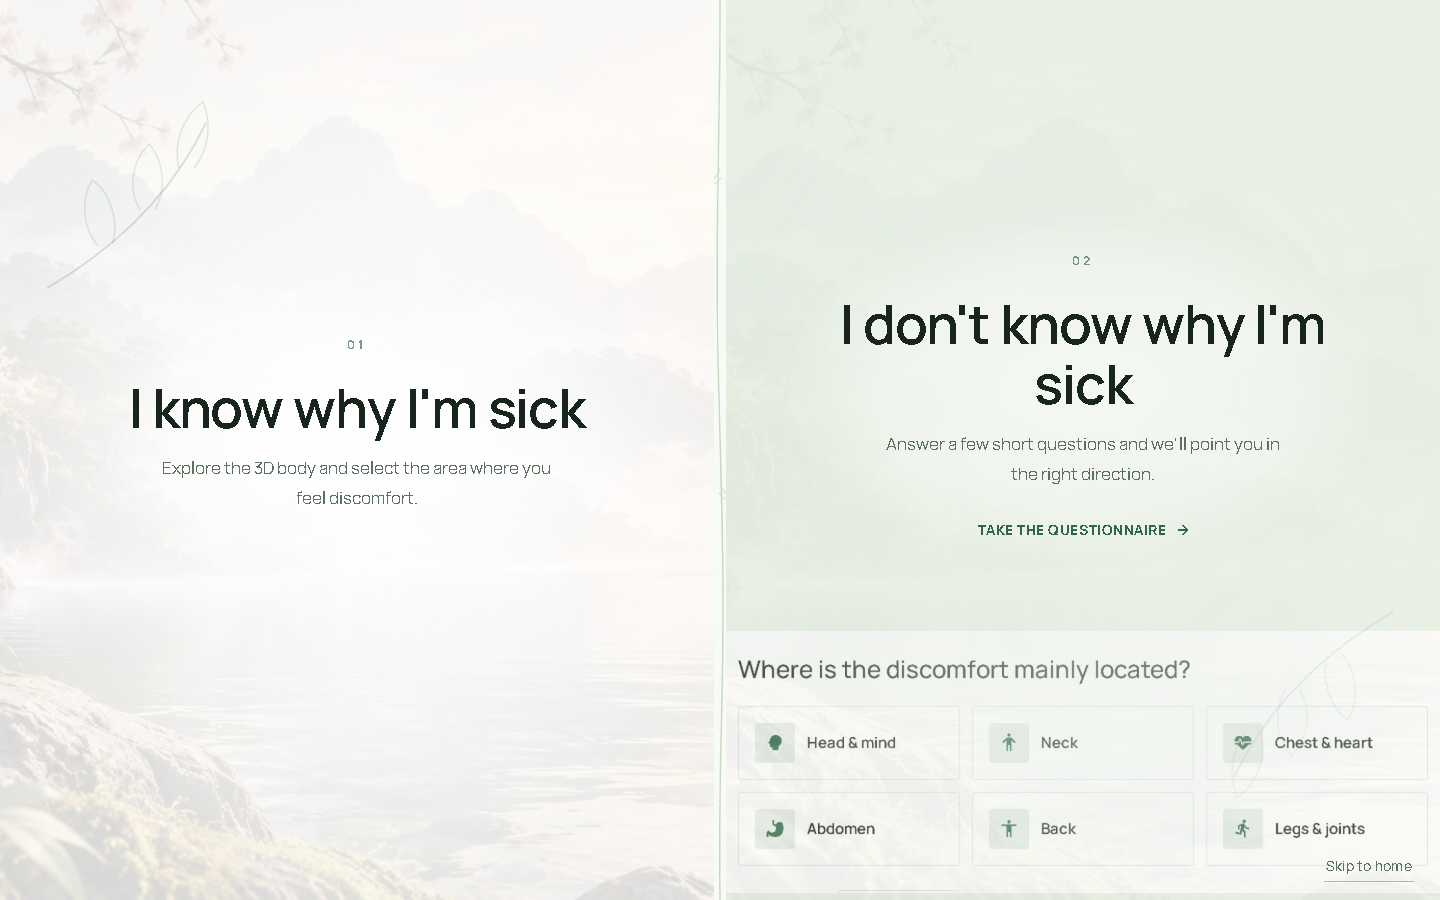
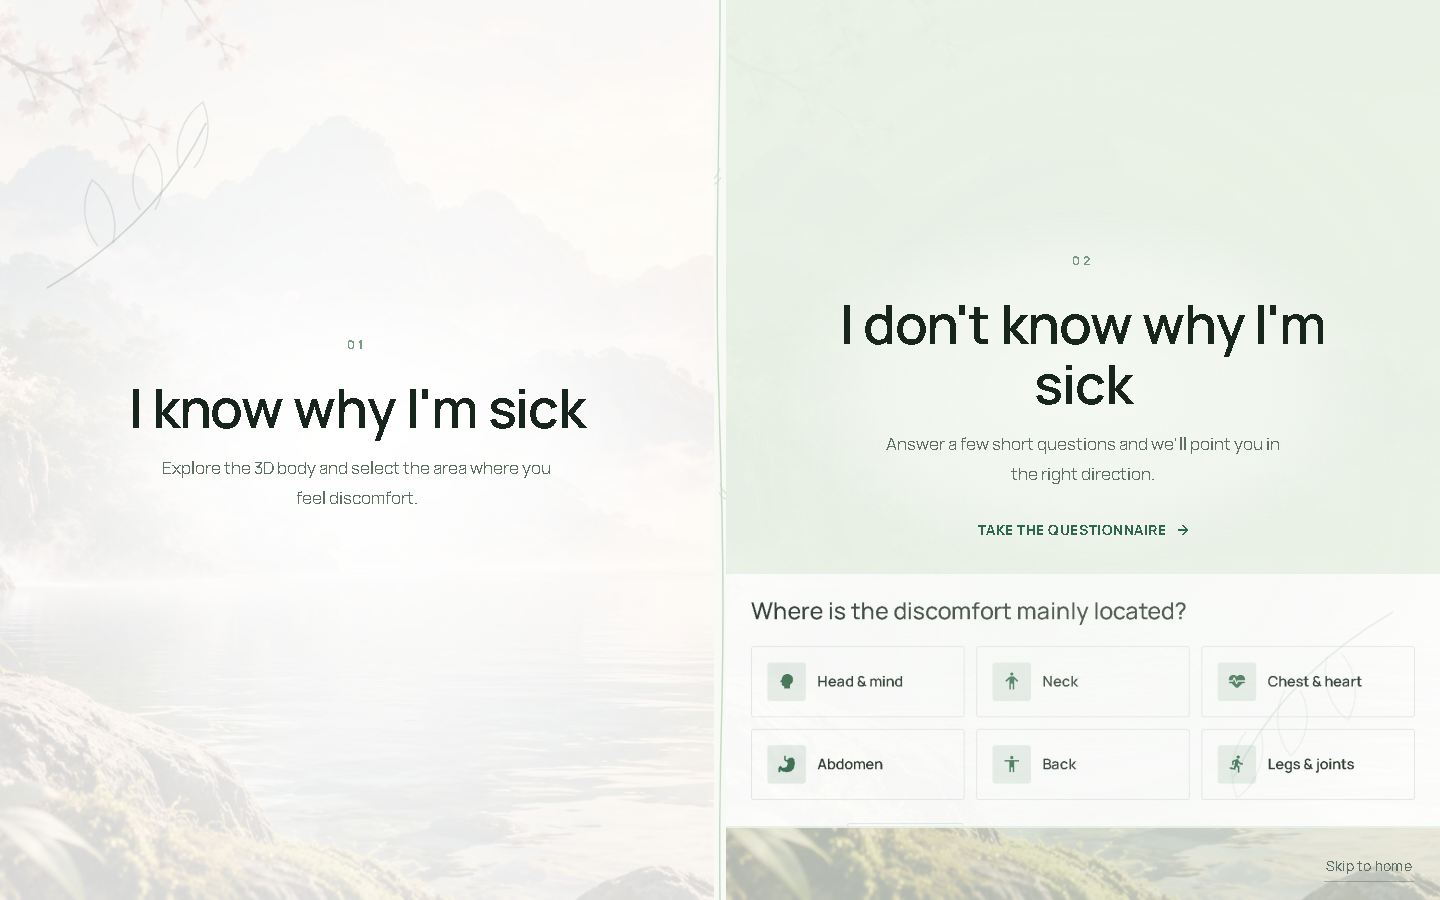
Round 7 corrective screenshots: /start framing, mobile skip pill, kidney selection

diff --git a/screenshots/nature-green/INDEX.md b/screenshots/nature-green/INDEX.md
@@ -1,9 +1,9 @@
 # Nature-Green Redesign — Visual Review (Round 7)
 
-Screenshots from the **latest Round 7 verification run** (`verify-final.mjs`
-against the live site at `https://localhost`, 2026-10-19 16:19–16:20 UTC+0
-capture time). These supersede all earlier rounds — every image below was
-regenerated in this run, not carried over.
+Screenshots from the **latest Round 7 corrective verification run**
+(`verify-final.mjs` against the live site at `https://localhost`, 2026-10-19
+18:46–18:47 UTC+0 capture time). These supersede all earlier rounds — every
+image below was regenerated in this run, not carried over.
 
 Application source code is **not** published here. This branch contains review
 screenshots and this index only.
@@ -15,13 +15,13 @@ screenshots and this index only.
 | `02-start-neutral.png` | 1440×900 | `/start` in its resting state — two entry panels, no preview revealed |
 | `03-start-left-preview.png` | 1440×900 | `/start` with the **left** panel active — "I know why I'm sick" preview revealed |
 | `04-start-right-preview.png` | 1440×900 | `/start` with the **right** panel active — "I don't know why I'm sick" preview revealed |
-| `15-mobile-start.png` | 390×844 | `/start` on mobile — framed touch previews, page-anchored skip link |
+| `15-mobile-start.png` | 390×844 | `/start` on mobile — framed touch previews, fixed top-right skip pill |
 | `05-home-chapter-1.png` | 1440×900 | Homepage **chapter 01** — editorial intro + arched nature photo |
 | `06-home-chapter-2.png` | 1440×900 | Homepage **chapter 02** — the book, service rows, gold booking CTA |
 | `07-home-chapter-3.png` | 1440×900 | Homepage **chapter 03** — share care (family + donations) over the nature wash |
 | `08-body-desktop.png` | 1440×900 | `/body` 3D body explorer, desktop — dark stage, organ selector rail, detail panel |
 | `09-body-mobile.png` | 390×844 | `/body` 3D body explorer, mobile — stacked selector + detail strip |
-| `16-body-selected.png` | 1440×900 | `/body` with an **organ selected** — camera focus + leader-line callout |
+| `16-body-selected.png` | 1440×900 | `/body` with the **kidneys selected** — camera focus + leader-line callout, gold highlight |
 | `12-home-arabic.png` | 1440×900 | Homepage in **Arabic (RTL)** — mirrored layout |
 | `13-start-arabic.png` | 1440×900 | `/start` in **Arabic (RTL)** — mirrored entry panels |
 
@@ -32,6 +32,11 @@ overflow matrices, colour scans and console errors — they are **not** a
 substitute for human visual judgement. Image viewing was unavailable during
 capture, so these PNGs are provided specifically for your eyes.
 
-Round 7 fixes visible in this set include: framed touch previews on `/start`,
-homepage chapter-02 nav-rail clearance, the high-DPI body-canvas fix, and the
-organ-focus camera that keeps body context.
+Round 7 corrective fixes visible in this set include: corrected `/start`
+framing so the desktop quiz preview fills its panel without colliding with the
+skip link, a fixed top-right mobile skip pill that never covers content,
+verified kidney selection (purple → terracotta, forced fully opaque with a
+boosted champagne highlight and an anatomically-anchored callout), the
+high-DPI body-canvas fix, and the homepage chapter-02 nav-rail clearance.
+Image viewing was unavailable during capture, so these PNGs are provided
+specifically for your eyes.
